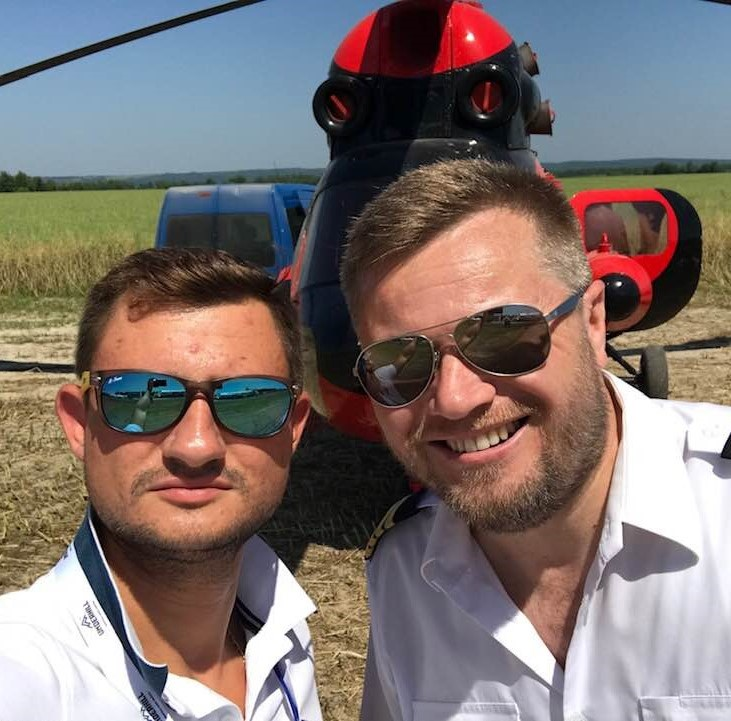
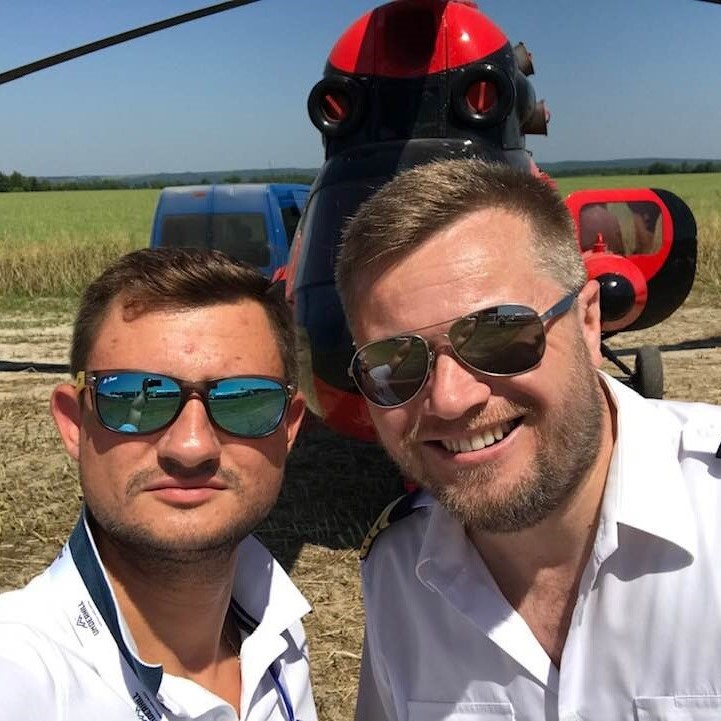
Fix MainCard Pics size

diff --git a/src/components/MainCard/MainCard.module.css b/src/components/MainCard/MainCard.module.css
@@ -13,8 +13,7 @@
     padding: 3rem 1rem;
 }
 
-.figure .figcaption,
-.figure .figcaption {
+ .figcaption {
     position: absolute;
     top: 0;
     right: 0;
@@ -25,7 +24,6 @@
 .figure {
     position: relative;
     max-width: 35ch;
-    width: 35ch;
     overflow: hidden;
     box-sizing: border-box;
     background: var(--lightwhite);
@@ -34,7 +32,10 @@
     margin-bottom: 2rem;
 }
 
-.figure .img {
+ .img {
+    display: block;
+    object-fit: cover;
+    max-height: 40rem;
     width: 100%;
     max-width: 100%;
     background-position: center;
@@ -45,14 +46,13 @@
 }
 
 .figure .figcaption {
-    box-sizing: border-box;
-    padding: 2rem;
+    padding: 1rem;
+    margin: 0;
     font-family: 'Montserrat', sans-serif;
     color: var(--primarywhite);
     text-shadow: 1px 1px 3px #010101;
 }
 
-.figure .figcaption:after,
 .figure .figcaption:before {
     position: absolute;
     content: '';
@@ -97,14 +97,9 @@
     transform: scale(1.2);
 }
 
-.figure:hover .figcaption:after,
 .figure:hover .figcaption:before {
     opacity: 1;
     transform: scale(1);
-}
-
-.figure:hover .figcaption:after {
-    transition-delay: .15s;
 }
 
 .figure:hover h2,
